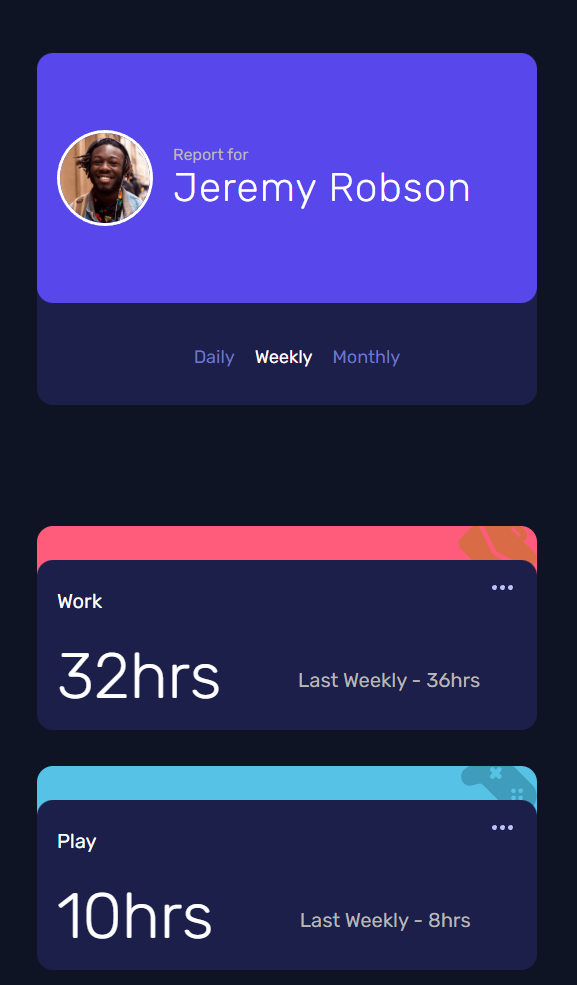
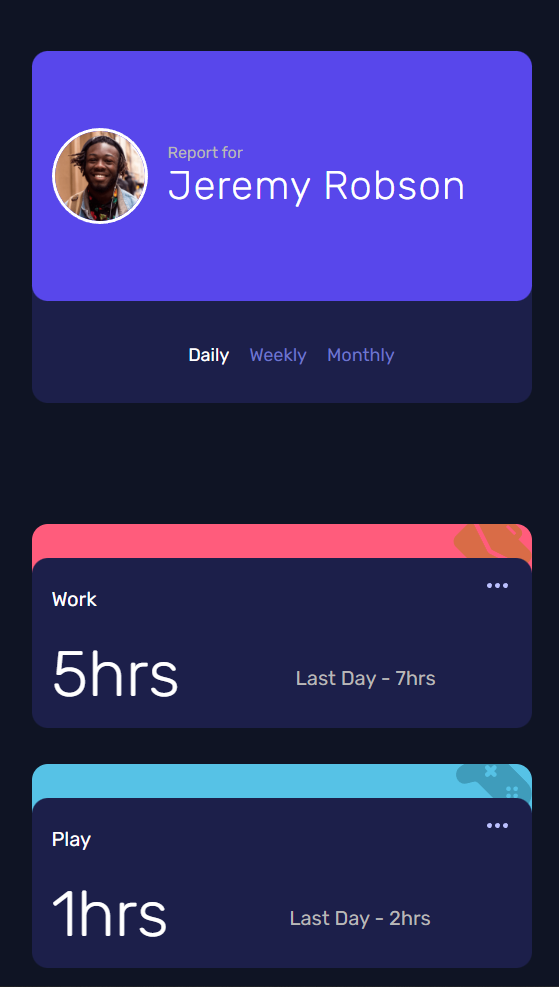
style: refatorando nome de classes e corrigindo arquivos de imagem

diff --git a/index.html b/index.html
@@ -21,7 +21,7 @@
 <body>
     <main class="container">
         <section class="box">
-            <article class="perfil">
+            <article class="profile">
                 <div class="user-information">
                     <div class="user-image">
                         <img src="./img/image-jeremy.png" alt="profile-image">
@@ -32,7 +32,7 @@
                         <h1>Jeremy Robson</h1>
                     </div>
                 </div>
-                <div class="periodos">
+                <div class="time-tracker">
                     <div>
                         <ul>
                             <li class="active" id="daily">Daily</li>
@@ -45,32 +45,32 @@
 
             <section class="grid-items-container">
                 <article class="item-card work">
-                    <div class="sobreposicao"></div>
+                    <div class="overlap"></div>
                     <div class="informations"></div>
                 </article>
 
                 <article class="item-card play">
-                    <div class="sobreposicao"></div>
+                    <div class="overlap"></div>
                     <div class="informations"></div>
                 </article>
 
                 <article class="item-card study">
-                    <div class="sobreposicao"></div>
+                    <div class="overlap"></div>
                     <div class="informations"></div>
                 </article>
 
                 <article class="item-card exercise">
-                    <div class="sobreposicao"></div>
+                    <div class="overlap"></div>
                     <div class="informations"></div>
                 </article>
 
                 <article class="item-card social">
-                    <div class="sobreposicao"></div>
+                    <div class="overlap"></div>
                     <div class="informations"></div>
                 </article>
 
                 <article class="item-card self-care">
-                    <div class="sobreposicao"></div>
+                    <div class="overlap"></div>
                     <div class="informations"></div>
                 </article>
             </section>

diff --git a/js/script.js b/js/script.js
@@ -1,7 +1,7 @@
 const url = './data/data.json';
 
 const informationsField = document.querySelectorAll('.informations');
-const btnTimeTracking = document.querySelectorAll('.periodos li');
+const btnTimeTracking = document.querySelectorAll('.time-tracker li');
 
 // Renderiza as informações de rastreamento de tempo DIÁRIO
 function handleTimeTrackingInitial(dataJSON) {
@@ -10,7 +10,7 @@ function handleTimeTrackingInitial(dataJSON) {
             <p>${dataJSON[i].title}</p>
             <h2>${dataJSON[i].timeframes.daily.current}hrs</h2>
             <span>
-                Last Daily - ${dataJSON[i].timeframes.daily.previous}hrs
+                Last Day - ${dataJSON[i].timeframes.daily.previous}hrs
             </span>
         `;
     });
@@ -23,7 +23,7 @@ function handleTimeTrackingWeekly(dataJSON) {
             <p>${dataJSON[i].title}</p>
             <h2>${dataJSON[i].timeframes.weekly.current}hrs</h2>
             <span>
-                Last Weekly - ${dataJSON[i].timeframes.weekly.previous}hrs
+                Last Week - ${dataJSON[i].timeframes.weekly.previous}hrs
             </span>
         `;
     });
@@ -36,7 +36,7 @@ function handleTimeTrackingMonthly(dataJSON) {
             <p>${dataJSON[i].title}</p>
             <h2>${dataJSON[i].timeframes.monthly.current}hrs</h2>
             <span>
-                Last Monthly - ${dataJSON[i].timeframes.monthly.previous}hrs
+                Last Month - ${dataJSON[i].timeframes.monthly.previous}hrs
             </span>
         `;
     });

diff --git a/css/overlap-grid-card.css b/css/overlap-grid-card.css
@@ -1,39 +1,39 @@
-.work .sobreposicao {
+.work .overlap {
   background-image   : url("../img/icons/icon-work.svg");
   background-position: right;
   background-repeat  : no-repeat;
   background-color   : var(--Light-red);
 }
 
-.play .sobreposicao {
+.play .overlap {
   background-image   : url("../img/icons/icon-play.svg");
   background-position: right;
   background-repeat  : no-repeat;
   background-color   : var(--Soft-blue);
 }
 
-.study .sobreposicao {
+.study .overlap {
   background-image   : url("../img/icons/icon-study.svg");
   background-position: right;
   background-repeat  : no-repeat;
   background-color   : var(--Light-red);
 }
 
-.exercise .sobreposicao {
+.exercise .overlap {
   background-image   : url("../img/icons/icon-exercise.svg");
   background-position: right;
   background-repeat  : no-repeat;
   background-color   : var(--Lime-green);
 }
 
-.social .sobreposicao {
+.social .overlap {
   background-image   : url("../img/icons/icon-social.svg");
   background-position: right;
   background-repeat  : no-repeat;
   background-color   : var(--Violet);
 }
 
-.self-care .sobreposicao {
+.self-care .overlap {
   background-image   : url("../img/icons/icon-self-care.svg");
   background-position: right;
   background-repeat  : no-repeat;

diff --git a/css/profile-card.css b/css/profile-card.css
@@ -1,4 +1,4 @@
-.perfil {
+.profile {
   display        : flex;
   align-items    : center;
   justify-content: center;
@@ -41,7 +41,7 @@
 }
 
 
-.periodos {
+.time-tracker {
   display       : flex;
   padding-bottom: 17px;
   align-items   : end;
@@ -54,11 +54,11 @@
   z-index       : 1;
 }
 
-.periodos ul {
+.time-tracker ul {
   margin-left: 20px;
 }
 
-.periodos li {
+.time-tracker li {
   margin-top: 15px;
   font-size : 18px;
   cursor    : pointer;
@@ -66,16 +66,16 @@
   transition: .5s ease all;
 }
 
-.periodos li:hover {
+.time-tracker li:hover {
   color: #fff;
 }
 
-.periodos ul li.active {
+.time-tracker ul li.active {
   color: #fff;
 }
 
 @media(max-width: 870px) {
-  .perfil {
+  .profile {
     margin: 15px;
   }
 
@@ -86,16 +86,16 @@
     width      : 100%;
   }
 
-  .periodos {
+  .time-tracker {
     height: 100px;
   }
 
-  .periodos>div {
+  .time-tracker>div {
     margin       : 0 auto;
     margin-bottom: 20px;
   }
 
-  .periodos ul {
+  .time-tracker ul {
     display: flex;
     gap    : 20px;
   }

diff --git a/css/global.css b/css/global.css
@@ -57,16 +57,15 @@ ul {
 }
 
 body {
-    margin: 0px;
+    margin    : 0px;
     background: var(--Very-dark-blue);
 }
 
 .container {
-    width     : 100%;
-    height    : 100%;
-    background: var(--Very-dark-blue);
-    display   : flex;
-
+    width          : 100%;
+    height         : 100%;
+    background     : var(--Very-dark-blue);
+    display        : flex;
     flex-direction : row;
     justify-content: center;
     align-items    : center;

diff --git a/css/grid-card.css b/css/grid-card.css
@@ -7,13 +7,12 @@
 }
 
 .item-card {
-  /* height          : 200px; */
   height       : 100%;
   border-radius: 1em;
   box-sizing   : border-box;
 }
 
-.sobreposicao {
+.overlap {
   height       : 50px;
   width        : 100%;
   border-radius: 1em 1em 0 0;
